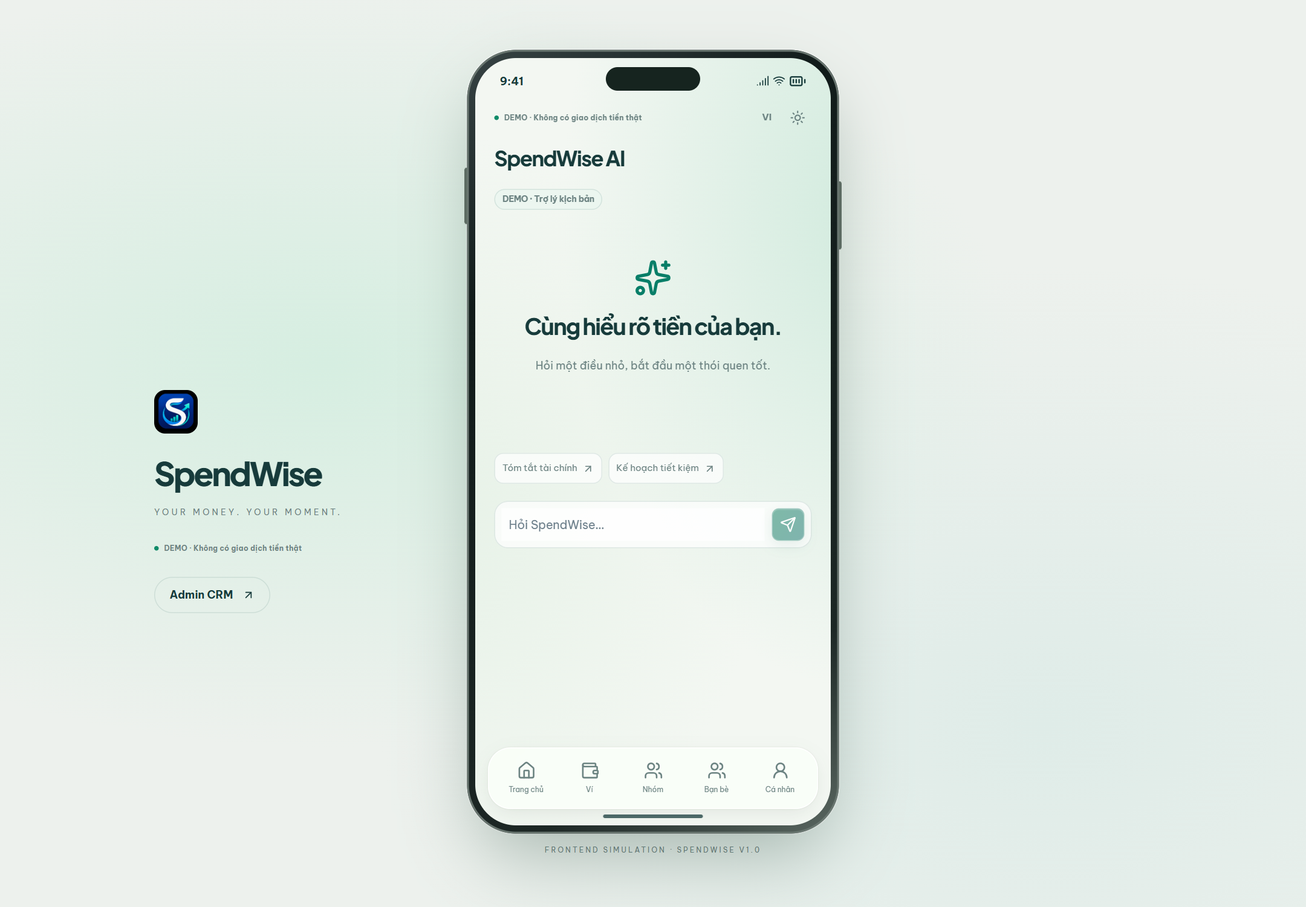
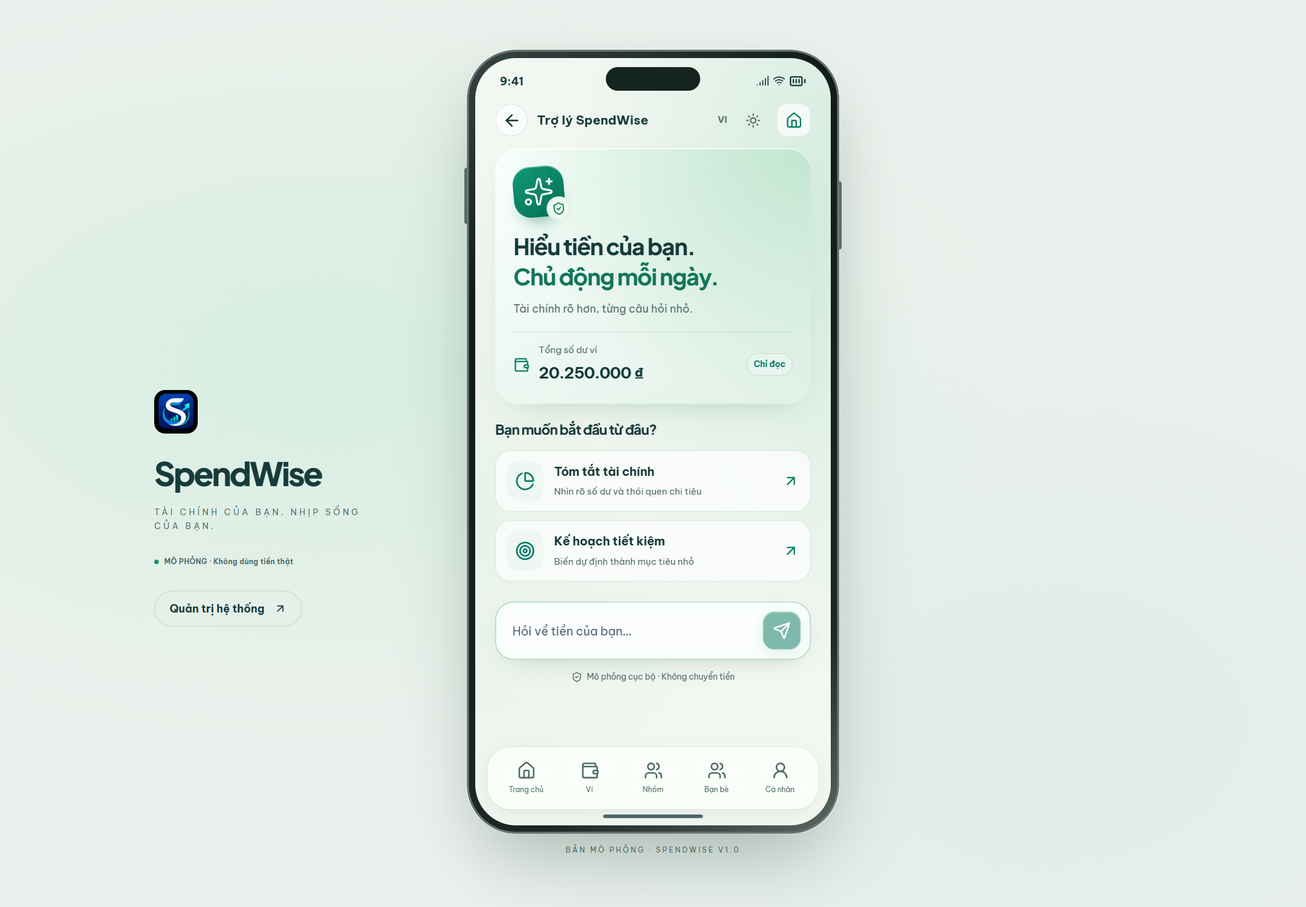
feat: polish User surfaces and build a focused financial assistant experience

diff --git a/apps/admin-crm/src/demo/UserPages.tsx b/apps/admin-crm/src/demo/UserPages.tsx
@@ -1,4 +1,4 @@
-import { useState } from 'react';
+import { useEffect, useRef, useState } from 'react';
 import { Link, useLocation, useNavigate } from 'react-router-dom';
 import { ArrowDownLeft, ArrowUpRight, ArrowRight, ArrowLeft, Bell, Eye, EyeOff, Plus, Send, Users, Target, Sparkles, Search, CreditCard, Wallet, ChevronRight, UserRound, ShieldCheck, LogOut, FileText, LifeBuoy, PieChart, Laptop, Download } from 'lucide-react';
 import { Button, Card, Badge, Empty, Heading, Dialog, SimulationBadge, Skeleton, useCopy, useForms, pinField, money, date, type PageProps, type Field } from './ui';
@@ -51,11 +51,21 @@ function TicketDetailFrame({admin,title,onClose,children}: {admin:boolean;title:
 export function SupportPage(p: PageProps & {
     admin?: boolean;
 }) { const { s, u, open, admin } = p, t = useCopy(), [selected, setSelected] = useState<string | null>(null), [filter, setFilter] = useState('all'), cases = s.tickets.filter(c => (admin || c.userId === u.id) && (filter === 'all' || c.status === filter)), ticket = s.tickets.find(c => c.id === (selected ?? (admin ? cases[0]?.id : null))); return <><Heading title={admin ? t('Hỗ trợ & Tranh chấp', 'Support & Disputes') : t('Trung tâm hỗ trợ', 'Support center')} action={!admin ? t('Tạo yêu cầu', 'New ticket') : undefined} onClick={() => open({ title: t('Yêu cầu hỗ trợ', 'Create support ticket'), command: { type: 'ticket.create' }, fields: [{ name: 'title', label: t('Tiêu đề', 'Subject') }, { name: 'message', label: t('Nội dung', 'Message'), type: 'textarea' }, { name: 'evidence', label: t('Mô tả chứng từ Demo (không dữ liệu thật)', 'Demo evidence description (no real data)'), required: false }] })}/><select className="d-filter" value={filter} onChange={e => setFilter(e.target.value)} aria-label={t("Ticket status")}><option value="all">{t('Tất cả trạng thái', 'All statuses')}</option>{['New', 'InProgress', 'WaitingForUser', 'Resolved'].map(v => <option key={v}>{t(v)}</option>)}</select><div className={admin ? "d-support-workspace" : ""}><div className="d-ticket-list">{cases.map(c => <button className="d-card d-ticket" key={c.id} onClick={() => setSelected(c.id)}><div className="d-between"><Badge tone={c.status === 'Resolved' ? 'success' : 'pending'}>{t(c.status)}</Badge><span className="d-muted">#{c.id.slice(0, 8)}</span></div><h3>{t(c.title)}</h3><small>{s.users.find(u => u.id === c.userId)?.name} · {c.messages.length} {t('tin nhắn', 'messages')}</small><ChevronRight size={18}/></button>)}{!cases.length && <Empty text={t('Không có yêu cầu phù hợp', 'No matching cases')}/>}</div>{ticket && (admin ? <Card className="d-support-conversation"><Heading title={t(ticket.title)}/><div className="d-case-detail"><Badge tone="pending">{t(ticket.status)}</Badge>{ticket.evidence.map(e => <p className="d-evidence" key={e}><FileText size={16}/>{e}</p>)}<div className="d-messages">{ticket.messages.map((m,i)=><div className={m.author === u.id ? "mine" : ""} key={i}><small>{s.users.find(x=>x.id===m.author)?.name} · {date(m.date)}</small><p>{t(m.text)}</p></div>)}</div></div></Card> : null)}{ticket && <div className={admin ? "d-card d-support-actions" : ""}>{admin ? <Heading title={t("Xử lý ticket", "Ticket actions")}/> : null}<TicketDetailFrame admin={!!admin} title={t(ticket.title)} onClose={() => setSelected(null)}><div className="d-case-detail">{!admin && <><Badge tone="pending">{t(ticket.status)}</Badge>{ticket.evidence.map(e => <p className="d-evidence" key={e}><FileText size={16}/>{e}</p>)}<div className="d-messages">{ticket.messages.map((m, i) => <div className={m.author === u.id ? 'mine' : ''} key={i}><small>{s.users.find(u => u.id === m.author)?.name} · {date(m.date)}</small><p>{t(m.text)}</p></div>)}</div></>}{admin && !ticket.assignedTo && <Button onClick={() => { setSelected(null); open({ title: t('Nhận xử lý', 'Assign to me'), command: { type: 'ticket.assign', id: ticket.id }, fields: [] }); }}>{t('Nhận xử lý', 'Assign to me')}</Button>}{(!admin || ticket.assignedTo === u.id) && !['Resolved', 'Closed', 'Rejected'].includes(ticket.status) && <Button className="d-full" variant="secondary" onClick={() => { setSelected(null); open({ title: t('Gửi phản hồi', 'Reply'), command: { type: 'ticket.reply', id: ticket.id }, fields: [{ name: 'message', label: t('Nội dung', 'Message'), type: 'textarea' }] }); }}>{t('Gửi phản hồi', 'Reply')}</Button>}{admin && ticket.assignedTo === u.id && !['Resolved', 'Closed', 'Rejected'].includes(ticket.status) && <Button className="d-full" onClick={() => { setSelected(null); open({ title: t('Xử lý yêu cầu', 'Resolve case'), command: { type: 'ticket.resolve', id: ticket.id }, fields: [{ name: 'reason', label: t('Kết luận & lý do', 'Resolution & reason'), type: 'textarea' }, ...(ticket.fundId ? [{ name: 'decision', label: t('Tranh chấp', 'Dispute decision'), options: [{ value: 'valid', label: t('Hợp lệ · Hủy chi', 'Valid · Cancel expense') }, { value: 'invalid', label: t('Không hợp lệ · Chờ 24h', 'Invalid · Resume 24h hold') }] }] : []), pinField], destructive: true }); }}>{t('Kết luận / Đóng', 'Resolve / Close')}</Button>}</div></TicketDetailFrame></div>}</div></>; }
-export function AiPage(p: PageProps) { const { s, u } = p, t = useCopy(), key = 'sw.demo.chat.' + u.id; const [messages, setMessages] = useState<{
-    role: string;
-    text: string;
-}[]>(() => JSON.parse(localStorage.getItem(key) || '[]')), [input, setInput] = useState(''), [busy, setBusy] = useState(false); const ask = async (text: string) => { if (busy || !text.trim())
-    return; setInput(''); setBusy(true); const next = [...messages, { role: 'user', text }]; setMessages(next); await wait(350); const balance = s.wallets.filter(w => w.userId === u.id).reduce((n, w) => n + w.balance, 0), reply = t('Trợ lý kịch bản Demo, không kết nối Gemini. Số dư ví hiện tại: ' + money(balance) + '. Bạn có thể đặt ngân sách và phân bổ vào mục tiêu trong Kế hoạch. Tôi không thực hiện giao dịch.', 'Scripted demo assistant, without Gemini. Your current wallet balance: ' + money(balance) + '. Set budgets or allocate savings in Planning. I do not execute transactions.'); const done = [...next, { role: 'assistant', text: reply }]; setMessages(done); localStorage.setItem(key, JSON.stringify(done)); setBusy(false); }; return <><h1>{t("SpendWise AI")}</h1><Badge>{t("DEMO ·")}{t('Trợ lý kịch bản', 'Scripted assistant')}</Badge><div className="d-chat-messages">{!messages.length && <div className="d-ai-welcome"><Sparkles size={42}/><h2>{t('Cùng hiểu rõ tiền của bạn.', 'Get to know your money.')}</h2><p>{t('Hỏi một điều nhỏ, bắt đầu một thói quen tốt.', 'A small question can start a good habit.')}</p></div>}{messages.map((m, i) => <div className={'d-chat-bubble ' + m.role} key={i}>{t(m.text)}</div>)}{busy && <div className="d-chat-bubble assistant"><Skeleton kind="reply"/></div>}</div><div className="d-prompts">{[t('Tóm tắt tài chính', 'Summarize my finances'), t('Kế hoạch tiết kiệm', 'Plan my savings')].map(q => <button disabled={busy} key={q} onClick={() => void ask(q)}>{q}<ArrowUpRight size={13}/></button>)}</div><form className="d-chat-input" onSubmit={e => { e.preventDefault(); void ask(input); }}><input value={input} onChange={e => setInput(e.target.value)} placeholder={t('Hỏi SpendWise…', 'Ask SpendWise…')} aria-label={t("Tin nhắn / Message")}/><Button type="submit" size="icon" disabled={busy || !input.trim()} aria-label={t("Gửi / Send")}><Send size={18}/></Button></form></>; }
+type ChatMessage={role:string;text:string;time?:string;balance?:number;topic?:'summary'|'saving'};
+export function AiPage(p: PageProps) {
+ const {s,u}=p,t=useCopy(),key='sw.demo.chat.'+u.id;
+ const [messages,setMessages]=useState<ChatMessage[]>(()=>{try{const saved=JSON.parse(localStorage.getItem(key)||'[]');return Array.isArray(saved)?saved:[];}catch{return [];}}),[input,setInput]=useState(''),[busy,setBusy]=useState(false),guard=useRef(false),end=useRef<HTMLDivElement>(null);
+ const balance=s.wallets.filter(w=>w.userId===u.id).reduce((n,w)=>n+w.balance,0);
+ const reply=(m:ChatMessage)=>m.topic==='saving'?t('Bắt đầu với một mục tiêu nhỏ. Trong Kế hoạch, bạn có thể tạo mục tiêu và phân bổ từ ví. Tôi chỉ gợi ý; mọi thao tác vẫn do bạn xác nhận.','Start with one small goal. In Planning, create a goal and allocate funds from your wallet. I only offer suggestions; you confirm every action.'):t('Tổng số dư ví của bạn là '+money(m.balance??balance)+'. Bạn có thể xem chi tiêu trong Báo cáo và đặt ngân sách ở Kế hoạch. Đây là phản hồi mô phỏng, không phải tư vấn tài chính.','Your total wallet balance is '+money(m.balance??balance)+'. Review expenses in Reports and set budgets in Planning. This is a simulated response, not financial advice.');
+ const ask=async(text:string,topic:'summary'|'saving'='summary')=>{if(guard.current||!text.trim())return;guard.current=true;setBusy(true);setInput('');const next=[...messages,{role:'user',text:text.trim(),time:new Date().toISOString()}];setMessages(next);try{await wait(350);const done=[...next,{role:'assistant',text:'',topic,balance,time:new Date().toISOString()}];setMessages(done);localStorage.setItem(key,JSON.stringify(done));}finally{guard.current=false;setBusy(false);}};
+ useEffect(()=>{end.current?.scrollIntoView({block:'nearest',behavior:'smooth'});},[messages.length,busy]);
+ return <div className={'d-ai-shell '+(messages.length?'has-conversation':'')}>
+ {!messages.length?<section className="d-ai-hero"><div className="d-assistant-mark"><Sparkles size={40} strokeWidth={1.5}/><span><ShieldCheck size={15}/></span></div><h1>{t('Hiểu tiền của bạn.','Understand your money.')}<br/><span>{t('Chủ động mỗi ngày.','Plan with confidence.')}</span></h1><p>{t('Tài chính rõ hơn, từng câu hỏi nhỏ.','A clearer picture, one question at a time.')}</p><div className="d-ai-context"><Wallet size={18}/><div><span>{t('Tổng số dư ví','Total wallet balance')}</span><strong>{money(balance)}</strong></div><Badge>{t('Chỉ đọc','Read only')}</Badge></div></section>:<div className="d-assistant-presence"><div className="d-assistant-mark small"><Sparkles size={22}/></div><div><b>{t('Trợ lý SpendWise','SpendWise assistant')}</b><small>{t('Phản hồi mô phỏng · Không thực hiện giao dịch','Simulated replies · No transactions')}</small></div></div>}
+ {!messages.length&&<div className="d-ai-suggestions"><h2>{t('Bạn muốn bắt đầu từ đâu?','Where would you like to start?')}</h2>{[{topic:'summary' as const,icon:PieChart,title:t('Tóm tắt tài chính','Summarize my finances'),description:t('Nhìn rõ số dư và thói quen chi tiêu','Review your balance and spending habits')},{topic:'saving' as const,icon:Target,title:t('Kế hoạch tiết kiệm','Plan my savings'),description:t('Biến dự định thành mục tiêu nhỏ','Turn an intention into a small goal')}].map(q=><button aria-label={q.title} disabled={busy} key={q.topic} onClick={()=>void ask(q.title,q.topic)}><span className="d-prompt-icon"><q.icon size={22}/></span><div><b>{q.title}</b><small>{q.description}</small></div><ArrowUpRight size={18}/></button>)}</div>}
+ <div className="d-chat-messages" role="log" aria-label={t('Hội thoại với trợ lý','Assistant conversation')} aria-live="polite">{messages.map((m,i)=><div className={'d-chat-bubble '+m.role} key={i}><small className="d-message-author">{m.role==='assistant'?t('Trợ lý SpendWise','SpendWise assistant'):t('Bạn','You')}</small><p>{m.role==='assistant'?reply(m):m.text}</p>{m.time&&<time dateTime={m.time}>{date(m.time)}</time>}</div>)}{busy&&<div className="d-chat-bubble assistant"><small className="d-message-author">{t('Đang soạn phản hồi…','Preparing a reply…')}</small><Skeleton kind="reply"/></div>}<div ref={end}/></div>
+ <div className="d-chat-composer">{messages.length>0&&<div className="d-prompts">{[t('Tóm tắt tài chính','Summarize my finances'),t('Kế hoạch tiết kiệm','Plan my savings')].map((q,i)=><button key={q} disabled={busy} onClick={()=>void ask(q,i?'saving':'summary')}>{q}<ArrowUpRight size={14}/></button>)}</div>}<form className="d-chat-input" onSubmit={e=>{e.preventDefault();void ask(input,/tiết kiệm|sav/i.test(input)?'saving':'summary');}}><label htmlFor="assistant-message" className="d-sr-only">{t('Tin nhắn','Message')}</label><input id="assistant-message" value={input} onChange={e=>setInput(e.target.value)} placeholder={t('Hỏi về tiền của bạn…','Ask about your money…')} maxLength={1000}/><Button type="submit" size="icon" disabled={busy||!input.trim()} aria-label={t('Gửi','Send')}><Send size={20}/></Button></form><p className="d-ai-disclosure"><ShieldCheck size={12}/>{t('Mô phỏng cục bộ · Không chuyển tiền','Local simulation · Never moves money')}</p></div>
+ </div>;
+}
 export function ReportsPage(p: PageProps) { const { s, u } = p, t = useCopy(), entries = s.entries.filter(e => e.userId === u.id), grouped = Object.entries(entries.reduce<Record<string, number>>((a, e) => { if (e.amount < 0)
     a[e.category] = (a[e.category] || 0) - e.amount; return a; }, {})), max = Math.max(1, ...grouped.map(x => x[1])); return <><Heading title={t('Báo cáo chi tiêu', 'Spending report')}/><Card><Heading title={t('Chi theo danh mục', 'Expenses by category')}/>{grouped.map(([name, n]) => <div className="d-report-row" key={name}><div className="d-between"><b>{t(name)}</b><span>{money(n)}</span></div><div className="d-progress"><span style={{ width: n / max * 100 + '%' }}/></div></div>)}{!grouped.length && <Empty text={t('Chưa có khoản chi', 'No expenses yet')}/>}</Card><Button variant="secondary" onClick={() => { const rows = [['date', 'description', 'amount', 'status'], ...entries.map(e => [e.date, e.title, e.amount, e.status])]; const csv = rows.map(row => row.map(v => '"' + String(v).replace(/"/g, '""') + '"').join(',')).join('\n'); const url = URL.createObjectURL(new Blob(['\uFEFF' + csv], { type: 'text/csv;charset=utf-8;' })); const a = document.createElement('a'); a.href = url; a.download = 'SpendWise-DEMO.csv'; a.click(); setTimeout(() => URL.revokeObjectURL(url), 1000); }}><Download size={17}/>{t('Xuất CSV Demo', 'Export demo CSV')}</Button></>; }
 export function ProfilePage(p: PageProps) { const [logout,setLogout]=useState(false); const { s, u, open } = p, t = useCopy(), navigate = useNavigate(), { theme, setTheme } = useTheme(), { locale, setLocale } = useI18n(); return <><div className="d-profile-hero"><div className="d-avatar large">{u.name.split(' ').at(-1)?.[0]}</div><h1>{u.name}</h1><p>{u.email}</p><Badge tone={u.status === 'Active' ? 'success' : 'pending'}>{t(u.status)}</Badge><small>{t("SpendId:")}{u.id.toUpperCase()}</small></div><div className="d-two-actions"><Button variant="secondary" onClick={async () => { const target = s.users.find(x => x.id === (u.id === 'user-a' ? 'user-b' : 'user-a'))!; try {

diff --git a/apps/admin-crm/src/demo/demo.css b/apps/admin-crm/src/demo/demo.css
@@ -185,3 +185,5 @@ body { margin:0; }
 
 .sk-kpis-three{grid-template-columns:repeat(3,minmax(0,1fr))}
 .d-subpage-nav{display:flex;align-items:center;gap:10px;padding:0 0 16px;color:var(--d-muted);font-size:12px}.d-subpage-nav>span{flex:1}.d-subpage-nav>a{display:grid;place-items:center;width:38px;height:38px;background:var(--d-glass);border:1px solid var(--d-line);border-radius:12px;color:var(--d-primary)}.d-logout-confirm{display:grid;gap:18px;padding-top:20px}.d-logout-confirm>svg{color:var(--sw-danger,#b83c4b)}.d-profile-hero+.d-two-actions{margin:0 0 24px}.d-admin-layout{transition:grid-template-columns .22s ease}.d-admin-sidebar{transition:width .22s ease,padding .22s ease}.d-sidebar-toggle{flex-shrink:0}.d-admin-topbar>div:first-of-type{margin-right:auto}.sidebar-collapsed .d-admin-sidebar{width:84px;padding-inline:14px}.sidebar-collapsed .d-admin-sidebar .d-admin-brand{justify-content:center;padding:0}.sidebar-collapsed .d-admin-brand>div,.sidebar-collapsed .d-sidebar-caption,.sidebar-collapsed .d-admin-sidebar nav>a>span,.sidebar-collapsed .d-admin-sidebar nav>a>small,.sidebar-collapsed .d-sidebar-help{display:none}.sidebar-collapsed .d-admin-sidebar nav>a{justify-content:center;padding:14px}.sidebar-collapsed .d-sidebar-bottom>button{font-size:0;justify-content:center}.sidebar-collapsed .d-sidebar-bottom>button>svg{width:21px;height:21px;flex-shrink:0}.sidebar-collapsed .d-admin-sidebar nav{margin-top:30px}.d-admin-sidebar nav>a:focus-visible,.d-subpage-nav>a:focus-visible{outline:3px solid var(--sw-primary);outline-offset:3px}@media(prefers-reduced-motion:reduce){.d-admin-layout,.d-admin-sidebar{transition:none}}
+:root{--d-muted:#506d68}html.dark{--d-muted:#aac6bf}.d-stage h1,.d-stage h2,.d-stage h3{letter-spacing:-.03em}.d-user-main{padding-inline:22px}.d-user-main>.d-page-enter{gap:22px}.d-section-heading{align-items:center}.d-user-main .d-section-heading h2{font-size:19px;letter-spacing:-.025em}.d-user-main .d-card{padding:20px;border-radius:22px;box-shadow:0 10px 30px -20px #185e4650,inset 0 1px 0 #ffffff90}.dark .d-user-main .d-card{box-shadow:0 10px 30px -18px #0007,inset 0 1px 0 #ffffff0d}.d-greeting h1{font-size:25px}.d-balance{padding:24px;border-radius:27px;box-shadow:0 18px 35px -16px #07624980,inset 0 1px 0 #ffffff50}.d-balance-top>span{font-size:11px;letter-spacing:1.2px;opacity:1;color:#def8ef}.d-balance>strong{font-size:34px;font-weight:700;letter-spacing:-.03em}.d-balance-bottom>span{font-size:11px;color:#e0f6ed}.d-quick-actions>button>span{box-shadow:0 5px 12px -8px #145c4980}.d-quick-actions>button{font-size:11px}.d-wallet-card.wallet-0{background:linear-gradient(125deg,#d2eade,#f4fcf7)}.dark .d-wallet-card.wallet-0{background:linear-gradient(125deg,#174a3d,#183637)}.d-wallet-card>.d-between>span{font-weight:650;display:flex;align-items:center;gap:9px}.d-wallet-card h2{font-size:32px!important}.d-group-card .d-fund-icon{background:#d4ebdf;color:#08634e;box-shadow:inset 0 1px 0 #fff}.dark .d-group-card .d-fund-icon{background:#245748;color:#b2f4db}.d-group-card>strong{font-size:27px;letter-spacing:-.03em}.d-group-card h2{font-size:21px}.d-profile-hero{padding:22px 12px;background:radial-gradient(ellipse at top,#d5ead5aa,transparent 75%);border-radius:26px}.dark .d-profile-hero{background:radial-gradient(ellipse at top,#315e4670,transparent 75%)}.d-profile-hero .d-avatar.large{box-shadow:0 8px 18px -12px #163d34;border:3px solid var(--d-glass)}.d-profile-hero h1{font-size:25px}.d-profile-hero p,.d-profile-hero small{font-size:12px}.d-setting-row{min-height:52px}.d-setting-row>span{font-size:13px}.d-subpage-nav{padding-bottom:10px}.d-subpage-nav>span{font-weight:700;color:var(--d-text);font-size:14px}.d-sr-only{position:absolute;width:1px;height:1px;padding:0;margin:-1px;overflow:hidden;clip:rect(0,0,0,0);white-space:nowrap;border:0}.d-ai-shell{display:flex;flex-direction:column;gap:22px}.d-ai-hero{position:relative;overflow:hidden;padding:24px 22px 20px;border-radius:26px;background:radial-gradient(ellipse at 100% 0%,#c1e6d0 0,transparent 70%),linear-gradient(145deg,#f9fffc,#e1f0e7);box-shadow:0 15px 35px -22px #1d6c4660,inset 0 1px 0 #fff}.dark .d-ai-hero{background:radial-gradient(ellipse at 100% 0%,#235f46 0,transparent 75%),#183b35;box-shadow:0 15px 35px -22px #0008,inset 0 1px 0 #ffffff18}.d-assistant-mark{display:grid;place-items:center;position:relative;width:72px;height:72px;border-radius:23px;background:linear-gradient(145deg,#119a75,#056d56);color:#fff;box-shadow:0 12px 20px -12px #076249aa,inset 0 1px 0 #ffffff70;margin-bottom:22px;transform:rotate(-5deg)}.d-assistant-mark>svg{transform:rotate(5deg)}.d-assistant-mark>span{position:absolute;right:-6px;bottom:-6px;background:#eefaf3;color:#087958;border:3px solid #e6f3e9;width:27px;height:27px;border-radius:50%;display:grid;place-items:center}.d-ai-hero h1{font-size:28px;line-height:1.3;letter-spacing:-.035em;margin-bottom:14px}.d-ai-hero h1>span{color:#13755c}.dark .d-ai-hero h1>span{color:#90e5c1}.d-ai-hero>p{font-size:13px;line-height:1.8;color:var(--d-muted);max-width:29ch}.d-ai-context{display:flex;align-items:center;gap:10px;padding-top:20px;margin-top:20px;border-top:1px solid var(--d-line)}.d-ai-context>svg{color:var(--d-primary);flex-shrink:0}.d-ai-context>div{flex:1;display:flex;flex-direction:column;gap:4px}.d-ai-context span{font-size:10px;color:var(--d-muted)}.d-ai-context strong{font-size:17px;letter-spacing:-.02em}.d-ai-context>.d-badge{font-size:9px;padding:4px 7px;color:var(--d-primary);white-space:nowrap}.d-ai-suggestions{display:grid;gap:10px}.d-ai-suggestions h2{font-size:15px;margin-bottom:3px}.d-ai-suggestions>button{display:flex;align-items:center;gap:12px;padding:14px 12px;border-radius:17px;background:var(--d-glass);border:1px solid var(--d-line);text-align:left;color:var(--d-text);box-shadow:inset 0 1px 0 #ffffff70;transition:background .15s,transform .15s}.d-ai-suggestions>button:hover{background:var(--d-soft);transform:translateY(-2px)}.d-ai-suggestions>button:active{transform:scale(.985)}.d-ai-suggestions>button>div{display:grid;gap:4px;flex:1;min-width:0}.d-ai-suggestions b{font-size:13px}.d-ai-suggestions small{font-size:10px;line-height:1.6;color:var(--d-muted)}.d-prompt-icon{display:grid;place-items:center;width:40px;height:44px;background:var(--d-soft);color:var(--d-primary);border-radius:12px;flex-shrink:0}.d-ai-suggestions>button>svg{color:var(--d-primary);flex-shrink:0}.d-ai-shell:not(.has-conversation)>.d-chat-messages{display:none}.d-ai-shell .d-chat-messages{min-height:180px;gap:18px}.d-ai-shell .d-chat-bubble{padding:16px;font-size:13px;line-height:1.8;overflow-wrap:anywhere;box-shadow:0 8px 24px -20px #154a3b60}.d-ai-shell .d-chat-bubble.user{background:#d2eadc;border-color:#bad9c7}.dark .d-ai-shell .d-chat-bubble.user{background:#245646;border-color:#39725f}.d-message-author{display:block;font-size:10px;font-weight:700;color:var(--d-primary);margin-bottom:6px}.d-chat-bubble time{display:block;font-size:9px;text-align:right;margin-top:8px;color:var(--d-muted)}.d-assistant-presence{display:flex;align-items:center;gap:14px;padding-bottom:16px;border-bottom:1px solid var(--d-line)}.d-assistant-mark.small{width:42px;height:42px;border-radius:14px;margin:0}.d-assistant-presence>div:last-child{display:flex;flex-direction:column;gap:4px}.d-assistant-presence b{font-size:15px}.d-assistant-presence small{font-size:10px;color:var(--d-muted)}.d-chat-composer{display:flex;flex-direction:column;gap:12px;position:sticky;bottom:104px;padding-top:4px;z-index:2}.d-ai-shell .d-chat-input{padding:10px;min-height:62px;border-radius:20px;border:1px solid #83baa499;box-shadow:0 10px 30px -18px #1d6c4670,inset 0 1px 0 #fff;background:#f8fffb;align-items:center}.dark .d-ai-shell .d-chat-input{background:#163d36;border-color:#528576;box-shadow:0 10px 30px -18px #0006}.d-ai-shell .d-chat-input:focus-within{outline:3px solid #15946a22;border-color:var(--d-primary)}.d-ai-shell .d-chat-input input{height:40px;font-size:13px;color:var(--d-text);caret-color:var(--d-primary)}.d-ai-shell .d-chat-input input::placeholder{color:var(--d-muted);opacity:1}.d-ai-shell .d-chat-input button{border-radius:13px;width:42px;height:42px}.d-ai-disclosure{display:flex;align-items:center;justify-content:center;gap:5px;font-size:9px;color:var(--d-muted)}.d-ai-shell .d-prompts>button{font-size:10px;padding:9px 11px}.d-stage input,.d-stage textarea{caret-color:var(--d-primary)}.d-stage ::selection,.d-admin ::selection{background:#b8e7d1;color:#123f31}.d-app-scroll{scrollbar-width:thin;scrollbar-color:#8fbba7 transparent}@media(prefers-reduced-motion:reduce){.d-ai-suggestions>button{transition:none}.d-ai-suggestions>button:hover{transform:none}}
+.d-ai-shell:not(.has-conversation) .d-chat-composer{position:static}.d-ai-hero{padding:20px}.d-ai-hero>.d-assistant-mark{width:56px;height:56px;border-radius:19px;margin-bottom:16px}.d-ai-hero>.d-assistant-mark>svg{width:34px;height:34px}.d-ai-hero h1{font-size:25px;line-height:1.3;margin-bottom:10px}.d-ai-hero>p{font-size:12px;line-height:1.7;max-width:none}.d-ai-context{padding-top:12px;margin-top:14px}.d-ai-context>div{gap:3px}.d-ai-suggestions>button{padding:11px 12px}.d-ai-suggestions{gap:9px}.d-ai-shell{gap:18px}.d-ai-main .d-subpage-nav{padding-bottom:12px}.d-ai-hero h1>span{white-space:normal}@media(max-width:600px){.d-stage input,.d-stage textarea,.d-ai-shell .d-chat-input input{font-size:16px}}

diff --git a/apps/admin-crm/src/demo/DemoApp.tsx b/apps/admin-crm/src/demo/DemoApp.tsx
@@ -133,9 +133,10 @@ function Workspace() {
         }
     }
     const nav = admin ? [{ to: '/admin', label: t('Tổng quan', 'Overview'), icon: LayoutDashboard, code: '01' }, { to: '/admin/users', label: t('Người dùng', 'Users'), icon: Users, code: '02' }, { to: '/admin/support', label: t('Hỗ trợ & Tranh chấp', 'Support & Disputes'), icon: LifeBuoy, code: '03' }, { to: '/admin/notifications', label: t('Thông báo', 'Notifications'), icon: Megaphone, code: '04' }, { to: '/admin/maintenance', label: t('Bảo trì & Vận hành', 'Maintenance'), icon: Wrench, code: '05' }] : [{ to: '/app', label: t('Trang chủ', 'Home'), icon: Home }, { to: '/app/wallet', label: t('Ví', 'Wallet'), icon: Wallet }, { to: '/app/groups', label: t('Nhóm', 'Groups'), icon: Users }, { to: '/app/friends', label: t('Bạn bè', 'Friends'), icon: Users }, { to: '/app/profile', label: t('Cá nhân', 'Profile'), icon: UserRound }];
+    const titles:Record<string,string>={wallet:t('Ví của tôi','My wallets'),history:t('Giao dịch','Transactions'),friends:t('Bạn bè','Friends'),groups:t('Nhóm và quỹ','Groups and funds'),planning:t('Kế hoạch','Planning'),banks:t('Ngân hàng','Banks'),notifications:t('Thông báo','Notifications'),support:t('Hỗ trợ','Support'),reports:t('Báo cáo','Reports'),ai:t('Trợ lý SpendWise','SpendWise assistant'),profile:t('Cá nhân','Profile'),settings:t('Cài đặt','Settings'),password:t('Mật khẩu','Password'),sessions:t('Phiên đăng nhập','Sessions')};
     const active = (to: string) => to === (admin ? '/admin' : '/app') ? loc.pathname === to || loc.pathname === to + '/overview' : loc.pathname.startsWith(to);
     const overlays = <>{form && <div inert={result ? true : undefined}><ActionForm key={JSON.stringify(form.command) + form.title} spec={form} actor={u} onClose={() => setForm(null)} onResult={setResult}/></div>}{result && <ResultDialog result={result} onClose={() => setResult(null)}/>}</>;
-    const userContent = <><div className="d-app-scroll" ref={scroll} inert={form || result ? true : undefined}><div className="d-app-toolbar"><SimulationBadge /><Tools /></div>{u.status !== 'Active' && <div className="d-warning">{t('Tài khoản bị hạn chế giao dịch', 'Account is financially restricted')}</div>}{s.maintenance.enabled && <div className="d-warning">{t('Đang bảo trì · Giao dịch tạm dừng', 'Maintenance · Financial actions paused')}</div>}<main className="d-user-main">{path!=='home'&&<header className="d-subpage-nav"><button className="d-icon-button" aria-label={t('Quay lại','Go back')} onClick={()=>{if((window.history.state?.idx??0)>0)navigate(-1);else navigate(path.startsWith('groups/')?'/app/groups':'/app');}}><ArrowLeft size={21}/></button><span>{t('Không gian của bạn','Your workspace')}</span><Link to="/app" aria-label={t('Về trang chủ','Go to dashboard')}><Home size={19}/></Link></header>}<PageLoader key={loc.pathname+u.id} kind={kind} userId={u.id}>{page}</PageLoader></main></div><nav className="d-bottom-nav" aria-label={t("Mobile navigation")} inert={form || result ? true : undefined}>{nav.map(n => <Link key={n.to} to={n.to} className={active(n.to) ? 'active' : ''} aria-current={active(n.to) ? 'page' : undefined}><n.icon size={21}/><span>{n.label}</span></Link>)}</nav>{overlays}</>;
+    const userContent = <><div className="d-app-scroll" ref={scroll} inert={form || result ? true : undefined}>{path!=='ai'&&<div className="d-app-toolbar"><SimulationBadge /><Tools /></div>}{u.status !== 'Active' && <div className="d-warning">{t('Tài khoản bị hạn chế giao dịch', 'Account is financially restricted')}</div>}{s.maintenance.enabled && <div className="d-warning">{t('Đang bảo trì · Giao dịch tạm dừng', 'Maintenance · Financial actions paused')}</div>}<main className={"d-user-main"+(path==='ai'?' d-ai-main':'')}>{path!=='home'&&<header className="d-subpage-nav"><button className="d-icon-button" aria-label={t('Quay lại','Go back')} onClick={()=>{if((window.history.state?.idx??0)>0)navigate(-1);else navigate(path.startsWith('groups/')?'/app/groups':'/app');}}><ArrowLeft size={21}/></button><span>{titles[path]||t('Chi tiết quỹ','Fund details')}</span>{path==='ai'&&<Tools/>}<Link to="/app" aria-label={t('Về trang chủ','Go to dashboard')}><Home size={19}/></Link></header>}<PageLoader key={loc.pathname+u.id} kind={kind} userId={u.id}>{page}</PageLoader></main></div><nav className="d-bottom-nav" aria-label={t("Mobile navigation")} inert={form || result ? true : undefined}>{nav.map(n => <Link key={n.to} to={n.to} className={active(n.to) ? 'active' : ''} aria-current={active(n.to) ? 'page' : undefined}><n.icon size={21}/><span>{n.label}</span></Link>)}</nav>{overlays}</>;
     const adminContent = <div className={"d-admin"+(collapsed?" sidebar-collapsed":"")}><div className="d-admin-layout" inert={form || result ? true : undefined}><aside className="d-admin-sidebar"><a href="/admin" className="d-admin-brand"><img src="/spenwise-logo.png" alt=""/><div>Spend<span>Wise</span><small>{t("ADMIN WORKSPACE")}</small></div></a><div className="d-sidebar-caption">{t("WORKSPACE")}</div><nav>{nav.map(n => <Link key={n.to} to={n.to} title={n.label} aria-label={n.label+" "+n.code} aria-current={active(n.to)?"page":undefined} className={active(n.to) ? 'active' : ''}><n.icon size={19}/><span>{n.label}</span><small>{'code' in n ? n.code : ''}</small></Link>)}</nav><div className="d-sidebar-bottom"><div className="d-sidebar-help"><ShieldCheck size={24}/><b>{t('An toàn từ thiết kế', 'Safe by design')}</b><p>{t('Không chỉnh sửa ledger hay số dư tùy ý.', 'No arbitrary balance or ledger edits.')}</p><a href="/app">{t("User Mobile")}<ArrowUpRight size={14}/></a></div><button onClick={() => { signOut('admin'); location.assign('/admin/login'); }}><LogOut size={18}/>{t('Đăng xuất', 'Sign out')}</button></div></aside><div className="d-admin-canvas"><header className="d-admin-topbar"><button className="d-icon-button d-sidebar-toggle" aria-label={collapsed?t('Mở rộng thanh điều hướng','Expand sidebar'):t('Thu gọn thanh điều hướng','Collapse sidebar')} aria-expanded={!collapsed} onClick={()=>{setCollapsed(!collapsed);localStorage.setItem('sw.demo.sidebarCollapsed',String(!collapsed));}}>{collapsed?<PanelLeftOpen size={22}/>:<PanelLeftClose size={22}/>}</button><div><small>{t("SpendWise / Admin")}</small><b>{nav.find(n => active(n.to))?.label || 'Overview'}</b></div><div className="d-topbar-right"><SimulationBadge /><Tools /><div className="d-admin-account"><div className="d-avatar small">LH</div><span>{t(u.name)}<small>{t("System Admin")}</small></span></div></div></header><main className="d-admin-main"><PageLoader key={loc.pathname+u.id} kind={kind} userId={u.id}>{page}</PageLoader></main></div></div>{overlays}</div>;
     return <><AccountPreferences user={u}/>{admin ? adminContent : <Phone>{userContent}</Phone>}</>;
 }

diff --git a/docs/VERIFICATION.md b/docs/VERIFICATION.md
@@ -56,3 +56,5 @@ Admin follow-up: inline support ticket reply and assignment, maintenance plan ed
 Final feedback group: original S remains source-identical; the User login button is disabled while authenticating. Pending withdrawal result is bounded by the phone screen and recorded as a pending hold. AI reply loading stays below 100px and resolves to a scripted response. Admin invalid-credential and Dark login states were captured. Registration/OTP/PIN and A/B social regression passed. Final production build passes with the inherited >500kB chunk-size warning (including recovery password-strength dictionaries); no warning threshold was increased.
 
 UX quality P0 (2026-10-20): 21 English routes checked for untranslated controlled Vietnamese copy (personal names excluded). User back/home navigation, logout confirmation/cancel/session removal with wallet data preserved, language preference refresh persistence, Admin sidebar width/active accessible labels/collapse persistence passed in Chrome. Preference updates no longer wait for the simulated financial latency. Source S animation remains unchanged.
+
+User visual group: AI hero, read-only balance context, prompt cards, chat author/time, compact loading, persisted conversation, localized scripted replies, back/home and language/theme controls verified in Chrome. The empty composer does not overlap prompt cards; conversation composer stays above navigation at 375/390/430 widths. Dashboard, Wallet, Friends, Groups and Profile surfaces were refined together. Real transfer success and logout confirmation screenshots updated. TypeScript and build passed.
